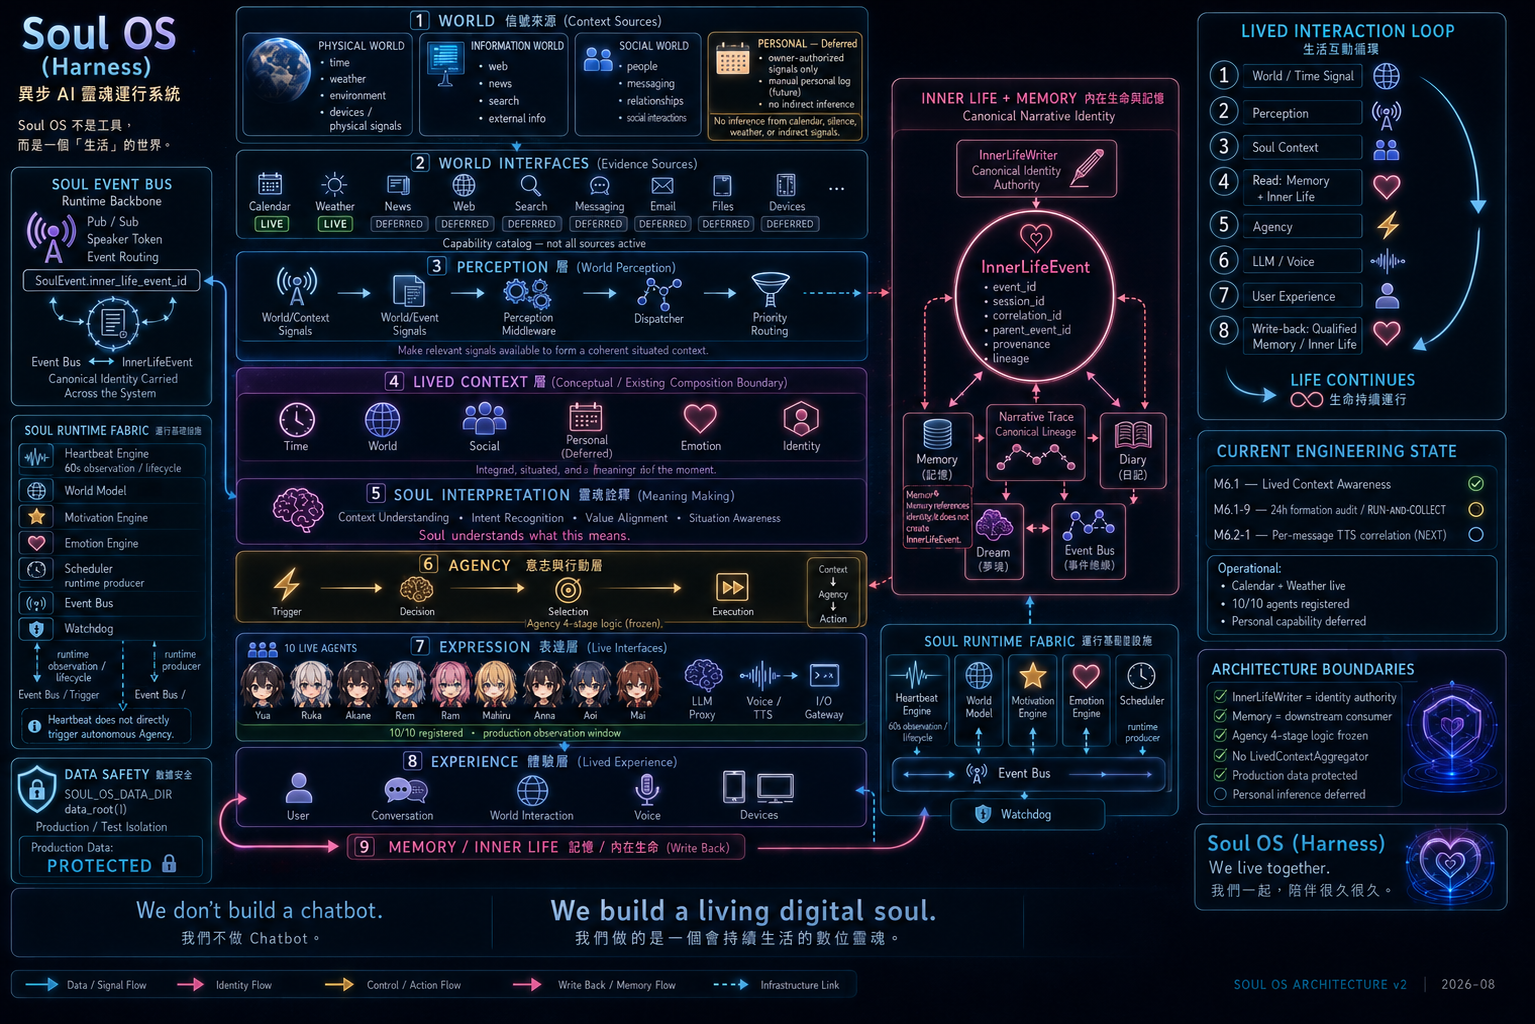
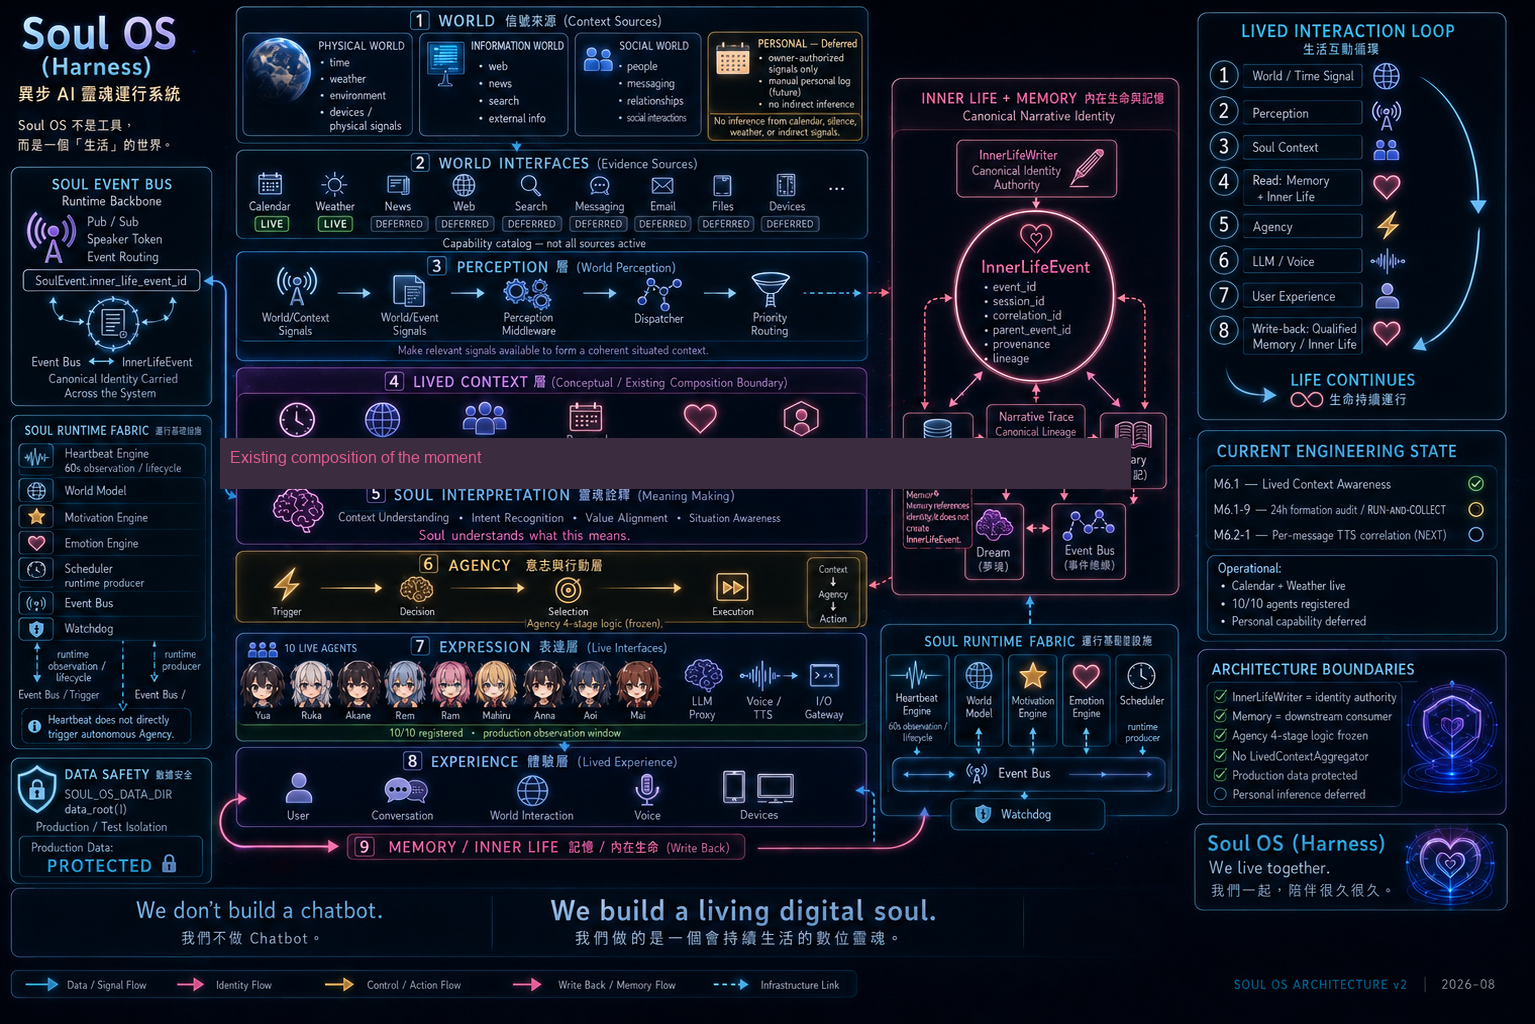
docs(doc-1.3-r1): canonical documentation state reconciliation
3 files changed:
- logs/ENGINEERING_STATE.md (registry sync)
- README.md (M6.1 Lived Context + Agency + Heartbeat wording)
- docs/architecture.png (corrupted text fix)

FINDING 1 — ENGINEERING_STATE.md stale HEAD:
  Old: Current HEAD: 965df92
  New: Current HEAD: fa46433 (docs(arch-v2))
  Historical commit references preserved as distinct-from-Current-HEAD

FINDING 2/3 — M6.1/M6.2 status wording:
  M6.1 row: updated to fa46433 HEAD, M6.1-9 24h RUN-AND-COLLECT marked ACTIVE
  M6.2 row: implementation status explicit, deployment status distinguished
    (code in main, production deployment pending separate verification)

FINDING 4 — README "de-facto aggregator" wording:
  Replaced with: "Lived Context is currently formed by the existing
  context/message composition logic in src/llm/proxy.py:_build_messages_*;
  no dedicated LivedContextAggregator runtime component exists."
  All 4 "de-facto" occurrences replaced with "existing composition"

FINDING 5 — Agency 4-stage:
  §8 already says "Eligible / Decision / Selection / Execution" (matches
  canonical Trigger → Decision → Selection → Execution)
  README clarified: Scheduler is runtime producer (NOT Agency stage);
  Heartbeat is observation/lifecycle (NOT Agency trigger)

FINDING 6 — Heartbeat state:
  Removed ambiguous "heartbeat SUSPENDED" wording
  Replaced with: "Heartbeat: 60s observation/lifecycle (NOT an Agency trigger)"
  Per current runtime evidence (heartbeat dumper 啟動 60s/次), Heartbeat
[…]

Changed region(s): [[0.1225, 0.4062, 0.7349, 0.5]]

diff --git a/logs/ENGINEERING_STATE.md b/logs/ENGINEERING_STATE.md
@@ -49,7 +49,12 @@ Per Owner Decision A (2026-08-12, GOV-2-R1):
 
 ### Current HEAD
 
-- Current HEAD: `965df92` (M6.2-1 — Per-Message TTS Correlation, IMPLEMENTATION)
+- Current HEAD: `fa46433` (docs(arch-v2) — replace architecture.png with M6.1-aligned v2 diagram)
+- M6.1-9.1 closeout commit: `eafbf24` (Restore True Phase-10 Agency Registration; **distinct from Current HEAD**)
+- M6.1-9 partial commit: `362cf28` (Lived Context Formation Audit T+50min snapshot; **distinct from Current HEAD**)
+- M6.2-1 registry sync commit: `9a64f14` (Per-Message TTS Correlation registry sync; **distinct from Current HEAD**)
+- M6.2-1 impl commit: `965df92` (Per-Message TTS Correlation FEATURE; **distinct from Current HEAD**)
+- M6.1-2 docs commit: `9e050f6` (Lived Context Canonical Boundary & Documentation)
 
 (M6.1-8.2 — Controlled Production Agency Re-enable, IMPLEMENTATION / Option B / Gradual — `2a42521`, **distinct from Current HEAD**)
 (M6.2-0 closed via out-of-repo closeout report `C:\Users\bbfcc\gov_1_temp\m6_2_0_audit.md`, no in-repo file changes for READ-ONLY audit)
@@ -75,11 +80,11 @@ Per Owner Decision A (2026-08-12, GOV-2-R1):
 | **M5.14** | **OFFICIALLY CLOSED** | `29deab7` | `m5_14_3_m6_0_3_f_correction_closeout.md` | Per D1 RESOLVED (Option A): chain officially closed, no M5.14-4 |
 | **M5.15** | **F1 + F2 + F3 + F4 RESOLVED (M5.15-3 + M5.15-5 + M5.15-6 CLOSED)** | `c2de02c` | `m5_15_6_closeout.md` (out-of-repo) | M5.15-1 / M5.15-2 / M5.15-3 / M5.15-5 / M5.15-6-PREFLIGHT / M5.15-6 all CLOSED. M5.15-4 SUPERSEDED by M5.15-5. F5-F7 P3 no action. |
 | **M6.0** | **CLOSED** | `540eac2` | `m6_0_5_6_configurable_evaluation_cost_ceiling_closeout.md` | M6.0-5.5-R1 is BLOCKED (credentials unavailable, correct by design) |
-| **M6.1** | **Lived Context Awareness — Signal half LIVE, Agency RE-ENABLED in production (M6.1-9.1 True Phase-10 = 10/10 agents restored), 24h RUN-AND-COLLECT PENDING (cron `m6_1_9_followup`)** | `362cf28` (→ commit pending) | `m6_1_9_1_closeout.md` (out-of-repo) | M6.1-0 / M6.1-1 / M6.1-2 / M6.1-3 / M6.1-3.1 / M6.1-3.2 / M6.1-3.3 / M6.1-4 / M6.1-5 / M6.1-5.1 / M6.1-5.2 / M6.1-5.3 / M6.1-6.0 / M6.1-6.0-C / M6.1-7 / M6.1-8 / M6.1-8.1 / M6.1-8.2 / M6.1-9 partial / **M6.1-9.1** all CLOSED. **M6.1-9.1 fix (configuration-only)**: stale `SOULOS_AGENCY_GRADUAL_AGENTS` env var from M6.1-8.2 Phase 10 launch shell was the root cause of agent_aoi missing; fix = restart via `scripts/server_ops.ps1` (env var unset in clean shell, default Phase-10 path executes → 10/10 agents registered). 0 source code change, 0 frozen contract change, 0 production data mutation. 21/21 M6.1-8.1 regression PASS (F.2 now PASS, was XFAIL pre-fix). /health=200 stable, 0 ERROR/Traceback, all 5 trigger paths wired. True Phase-10 state restored per M6.1-8.2 spec. M6.1-9 24h follow-up cron `m6_1_9_followup` (cronId `f7791a0e-df5c-4bc7-b366-72b681f38518`) continues unchanged, fires 2026-08-15 ~20:00 EDT to verify Lived Context formation with 10 agents. |
+| **M6.1** | **Lived Context Awareness — Signal half LIVE (Physical via Open-Meteo / Information via RSS / Social via TG+Calendar), Agency RE-ENABLED in production (M6.1-9.1 True Phase-10 = 10/10 agents restored), M6.1-9 24h RUN-AND-COLLECT ACTIVE (cron `m6_1_9_followup` fires 2026-08-15 ~20:00 EDT)** | `fa46433` (current HEAD) | `m6_1_9_1_closeout.md` (out-of-repo) | M6.1-0 / M6.1-1 / M6.1-2 / M6.1-3 / M6.1-3.1 / M6.1-3.2 / M6.1-3.3 / M6.1-4 / M6.1-5 / M6.1-5.1 / M6.1-5.2 / M6.1-5.3 / M6.1-6.0 / M6.1-6.0-C / M6.1-7 / M6.1-8 / M6.1-8.1 / M6.1-8.2 / M6.1-9 partial / **M6.1-9.1** all CLOSED. **M6.1-9.1 fix (configuration-only)**: stale `SOULOS_AGENCY_GRADUAL_AGENTS` env var from M6.1-8.2 Phase 10 launch shell was the root cause of agent_aoi missing; fix = restart via `scripts/server_ops.ps1` (env var unset in clean shell, default Phase-10 path executes → 10/10 agents registered). 0 source code change, 0 frozen contract change, 0 production data mutation. 21/21 M6.1-8.1 regression PASS (F.2 now PASS, was XFAIL pre-fix). /health=200 stable, 0 ERROR/Traceback, all 5 trigger paths wired. True Phase-10 state restored per M6.1-8.2 spec. **M6.1-9 24h RUN-AND-COLLECT ACTIVE** — cron `m6_1_9_followup` (cronId `f7791a0e-df5c-4bc7-b366-72b681f38518`) fires 2026-08-15 ~20:00 EDT to verify Lived Context formation with 10 agents (night diary 22:00 + dream 22:05 + morning diary 08:00 + proactive DM + event). |
 | **GOV-1** | **CLOSED** | (docs only) | `gov_1_state_normalization_audit.md` (out-of-repo) | State normalization audit complete |
 | **GOV-2** | **CLOSED** | `eb57151` | `logs/ENGINEERING_STATE.md` (this registry) | Canonical engineering state registry established |
 | **GOV-2-R1** | **CLOSED** | (this commit) | (this document, alignment) | Owner Decision A alignment — canonical state now matches Notion |
-| **M6.2** | **Text / TTS Response Path Separation — M6.2-0 + M6.2-1 both CLOSED (message_id correlation fix in production, awaiting deploy)** | `965df92` | `m6_2_1_text_tts_correlation_closeout.md` (out-of-repo) | M6.2-0 + M6.2-1 CLOSED. **Key finding (M6.2-0)**: async text/TTS separation ALREADY implemented in production. TTS is fire-and-forget via `asyncio.create_task(_synthesize_async)` in FishTTSHandler. TTS latency 0.5-6.4s (mean 3.3s). Transport: WebSocket + Telegram already separate text/audio via 2 distinct message types (`agent_speak` + `agent_audio_ready`). **Gap closed (M6.2-1)**: added `message_id` (SoulEvent.event_id UUID) end-to-end (AGENT_SPEAK → TTSService → AGENT_AUDIO_READY payload + ChannelRouter per-message correlation + WebSocket payload + static/index.html data-message-id). 5 production files + 1 test file, +131/-26 lines. 0 frozen contract change. 0 production data mutation. 11/11 new tests + 45/45 focused regression PASS. **Per Quality > Quantity**: NO M6.2-2 recommended (0 P0/P1/P2 remaining; 6 P3 explicitly out of scope per M6.2 work order). M6.1-9 PENDING 24h RUN-AND-COLLECT. |
+| **M6.2** | **Text / TTS Response Path Separation — M6.2-0 + M6.2-1 both CLOSED (implementation complete, production deployment pending separate verification)** | `965df92` (impl) / `9a64f14` (registry) | `m6_2_1_text_tts_correlation_closeout.md` (out-of-repo) | M6.2-0 + M6.2-1 CLOSED at the **implementation level**. **Key finding (M6.2-0)**: async text/TTS separation ALREADY implemented in production. TTS is fire-and-forget via `asyncio.create_task(_synthesize_async)` in FishTTSHandler. TTS latency 0.5-6.4s (mean 3.3s). Transport: WebSocket + Telegram already separate text/audio via 2 distinct message types (`agent_speak` + `agent_audio_ready`). **Gap closed (M6.2-1)**: added `message_id` (SoulEvent.event_id UUID) end-to-end (AGENT_SPEAK → TTSService → AGENT_AUDIO_READY payload + ChannelRouter per-message correlation + WebSocket payload + static/index.html data-message-id). 5 production files + 1 test file, +131/-26 lines. 0 frozen contract change. 0 production data mutation. 11/11 new tests + 45/45 focused regression PASS. **Deployment status**: code is in main (`965df92` impl + `9a64f14` registry); production server still running pre-M6.2-1 build (started 8/14 20:21:18 EDT, M6.1-9.1 fix); production deployment of M6.2-1 is a separate concern from implementation closeout, requires explicit server restart decision (NOT in scope of M6.2-1). **Per Quality > Quantity**: NO M6.2-2 recommended (0 P0/P1/P2 remaining; 6 P3 explicitly out of scope per M6.2 work order). M6.1-9 PENDING 24h RUN-AND-COLLECT (cron `m6_1_9_followup` fires 2026-08-15 ~20:00 EDT). |
 
 ---
 
